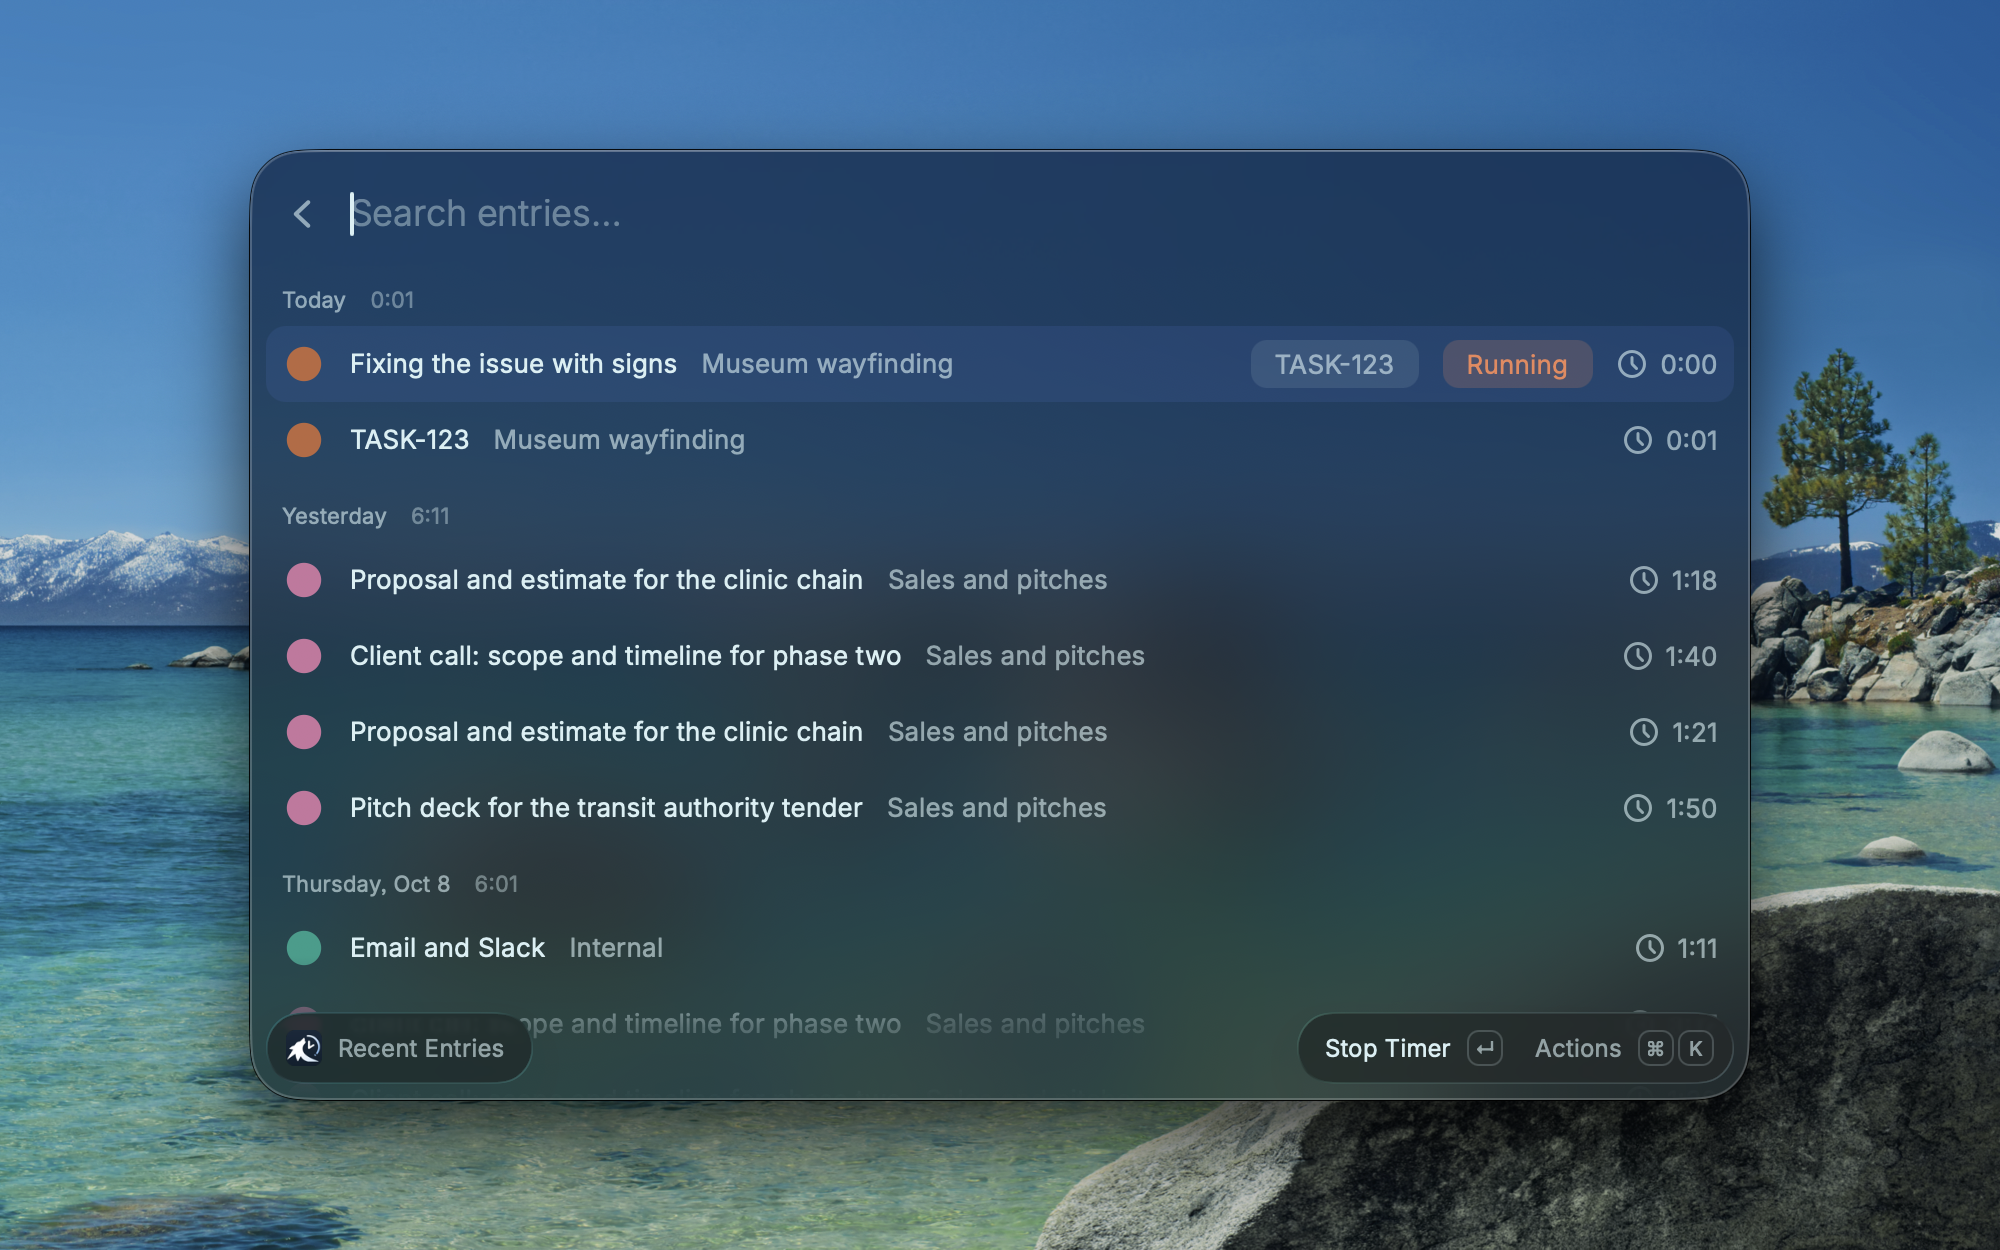
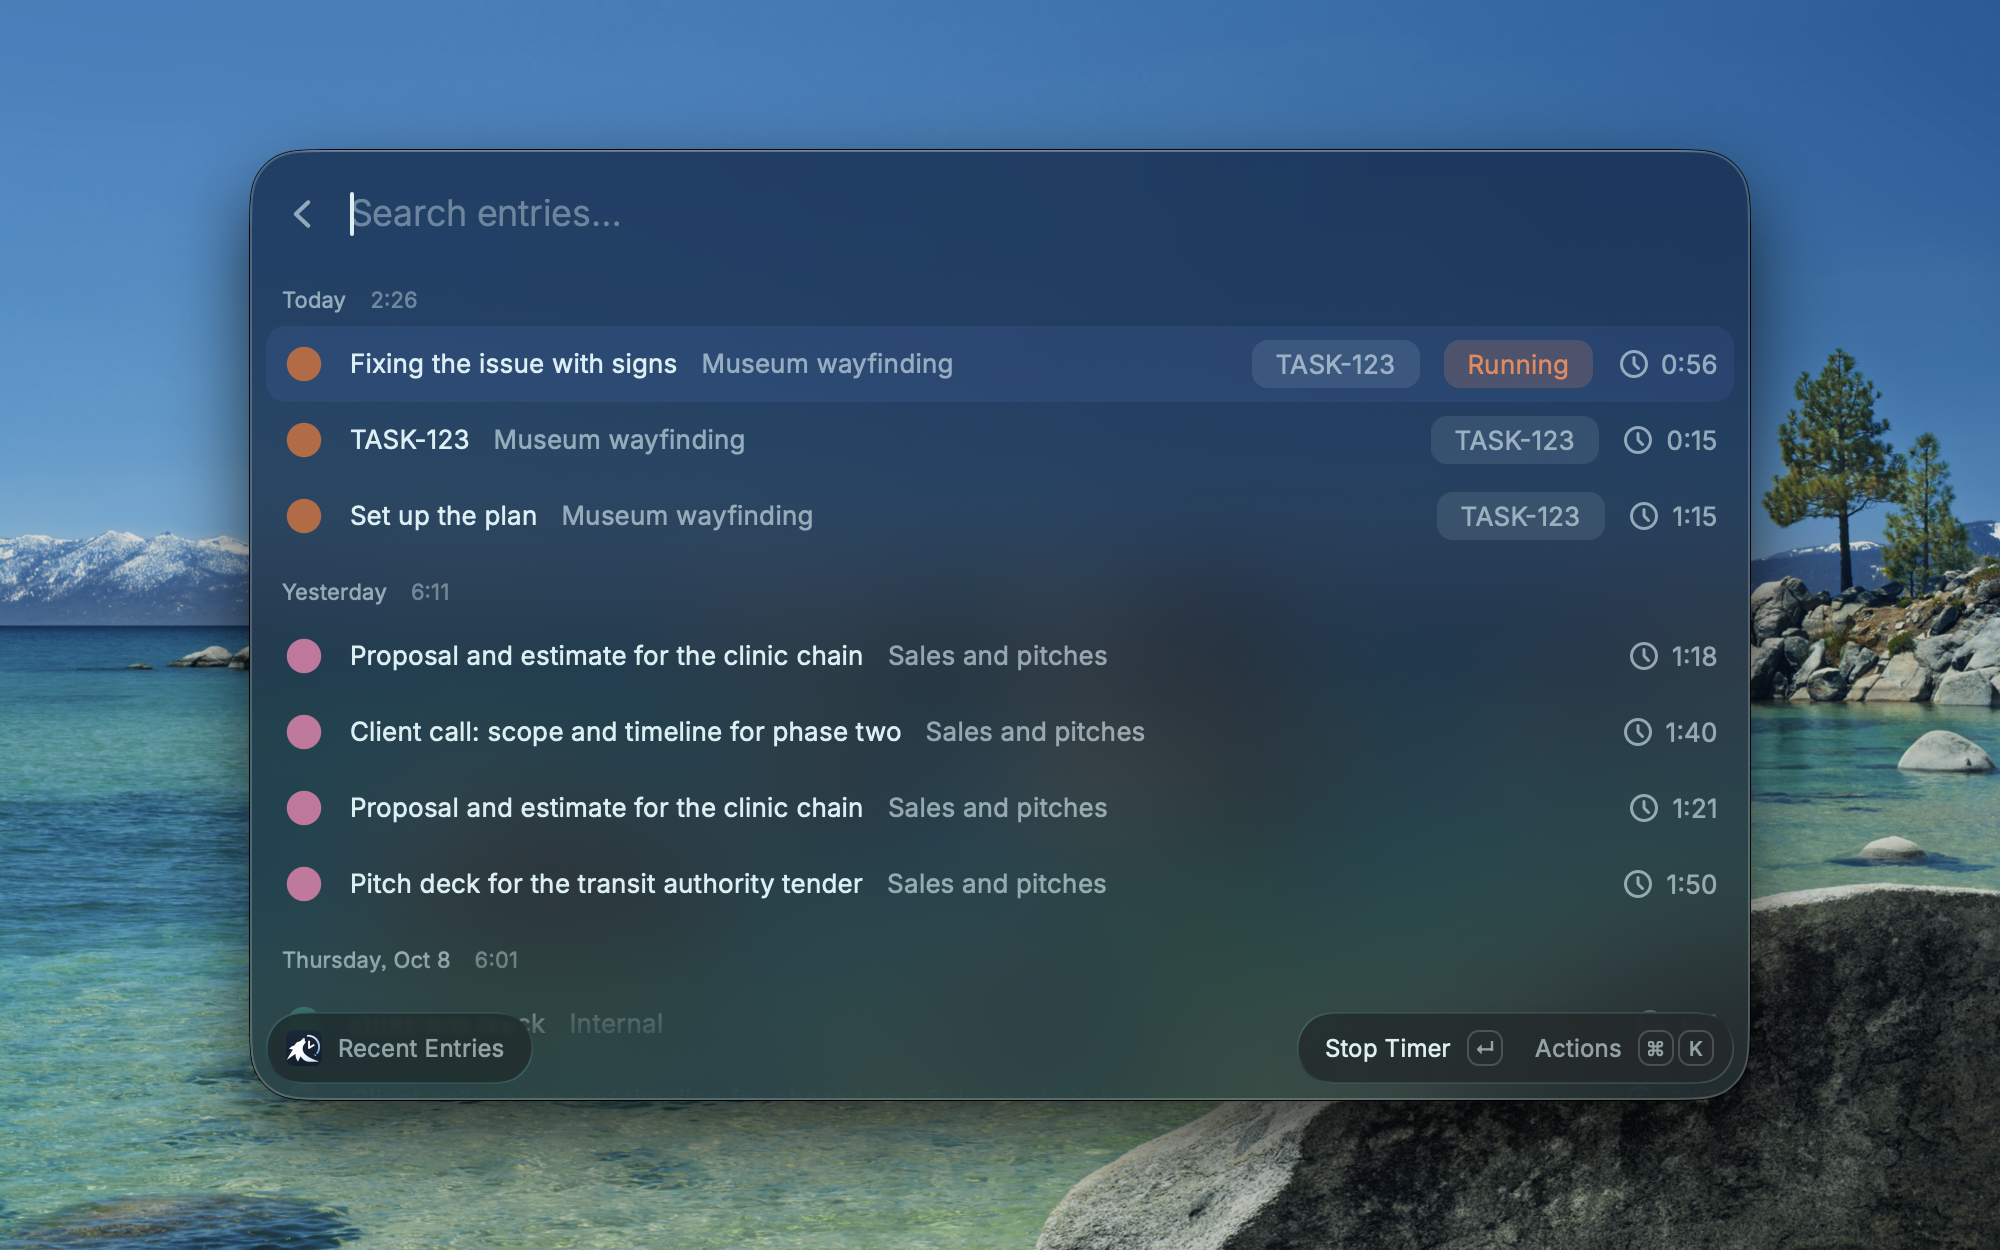
Retake the form, Recent Entries, and action panel screenshots.

diff --git a/tasks/004-store-release.md b/tasks/004-store-release.md
@@ -11,7 +11,7 @@ while.
 
 - [x] `extension/README.md` explains what the extension does, how to create an API key
       and which scope each command needs, and how to point it at a self-hosted instance
-- [ ] `extension/metadata/` holds three to six 2000 × 1250 PNG screenshots of the
+- [x] `extension/metadata/` holds three to six 2000 × 1250 PNG screenshots of the
       commands with fictional data, all in one theme
 - [x] `extension/CHANGELOG.md` lists the first version under
       `## [Initial Version] - {PR_MERGE_DATE}`
@@ -24,7 +24,7 @@ while.
       instead of the names Raycast 2.0 deprecated
 - [x] The extension sits in `extension/`, so `npm run publish` leaves the docs, tasks,
       prototypes, and agent files out of `raycast/extensions`
-- [ ] `npm run build` and `npm run lint` pass
+- [x] `npm run build` and `npm run lint` pass, also in CI on every push
 - [x] The repository is moved to the Snowhound organization, and Snowtime's `docs/api.md`
       links to it
 - [ ] `npm run publish` opens the pull request to `raycast/extensions`, and its review is
